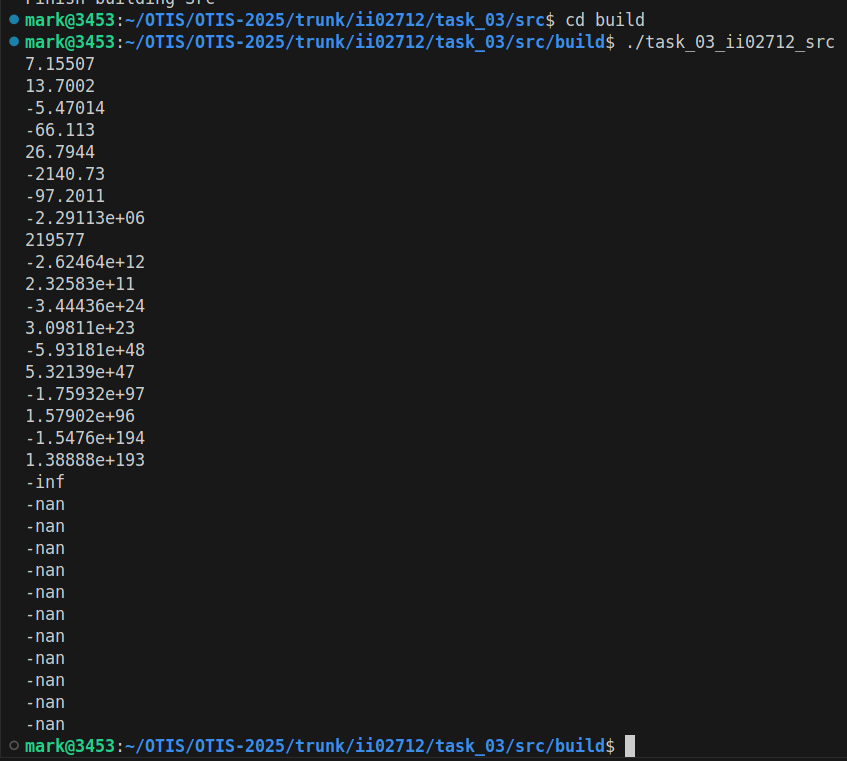
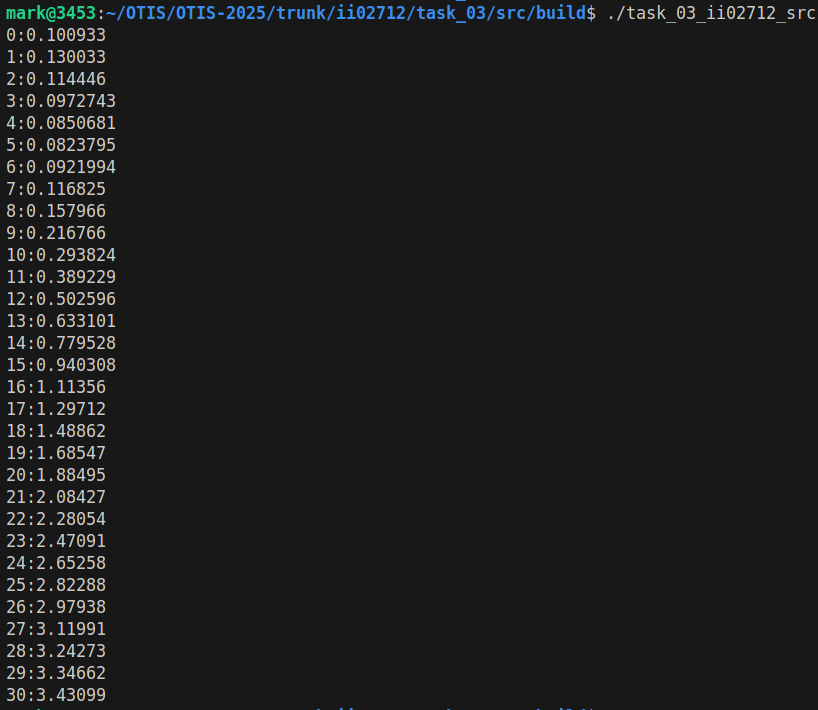
исправил T на T0

Changed region(s): [[0.0, 0.0, 1.0, 1.0]]

diff --git a/trunk/ii02712/task_02/test/test.cpp b/trunk/ii02712/task_02/test/test.cpp
@@ -13,7 +13,7 @@ TEST(TestLinearModel, WhenStepsIsFour)
     }
 
     std::vector<double> accepted_results
-    { 0.5, 0.45, 0.455, 0.4545 };
+    { 0.1, 0.45, 0.455, 0.4545 };
     EXPECT_EQ(results.size(), accepted_results.size());
     for (int i = 0; i < results.size(); i++)
     {
@@ -35,25 +35,10 @@ TEST(TestNonLinearModel, WhenStepsIsFour)
     }
 
     std::vector<double> accepted_results
-    {  0.53658, 0.33896, 0.44524, 0.3929 };
+    {  0.136588, 0.113601, 0.118776, 0.117657 };
     EXPECT_EQ(results.size(), accepted_results.size());  
     for (int i = 0; i < results.size(); i++) 
     {
         EXPECT_NEAR(results[i], accepted_results[i], 1e-2) << "Not equal at" << i;
-    }
-}
-
-TEST(TestPIDRegulatorUsingNonLinearModel, WhenStepsIsFour)
-{   
-    const int steps = 5;
-    const double w = 100;
-    std::vector<double> results = simulatePIDRegulatorUsingNonLinearModel(w, steps);
-
-    std::vector<double> accepted_results
-    { 2, 3.76, 3.29119, 0.746527, 3.94837};
-    EXPECT_EQ(results.size(), accepted_results.size());  
-    for (int i = 0; i < results.size(); i++)
-    {
-        EXPECT_NEAR(results[i], accepted_results[i], 1e-1) << "Not equal at" << i;
     }
 }

diff --git a/trunk/ii02712/task_02/src/main.cpp b/trunk/ii02712/task_02/src/main.cpp
@@ -1,0 +1,26 @@
+#include <iostream>
+#include <cmath>
+#include "functions.h"
+
+int main() {
+    const int steps = 15;
+    double y_next = 0;
+    double y_pred;   
+    double u = 1;  
+    std::cout << "The Linear model" << std::endl;
+    for (int i = 0; i < steps; i++) {
+        y_next = linearModel(y_next, u);
+        std::cout << i << "\t" << y_next << std::endl;
+    }
+    std::cout << std::endl;
+    y_next = 0;
+    double u_pred;  
+    std::cout << "Nonlinear model:" << std::endl;
+    for (int i = 0; i < steps; i++) {
+        y_pred = y_next;
+        u_pred = u;
+        y_next = nonlinearModel(y_next, u, y_pred, u_pred);
+        std::cout << i << "\t" << y_next << std::endl;
+    }
+    return 0;
+}

diff --git a/trunk/ii02712/task_03/src/functions.h b/trunk/ii02712/task_03/src/functions.h
@@ -3,16 +3,16 @@
 
 const double a = -0.1;
 const double b = 0.5;
-const double c = -0.2;
+const double c = 0.2;
 const double d = 0.4;
 
-const double K  = 0.001;
-const double T0 = 1;
-const double Td = 10.0;
-const double T = 0.05;
+const double K  = 0.1;
+const double T0 = 0.1;
+const double Td = 0;
+const double T = 0.1;
 
 const double q0 = K * (1.0 + Td/T0);
-const double q1 = -K * (1.0 + 2.0 * Td/T - T0/T);
+const double q1 = -K * (1.0 + 2.0 * Td/T0 - T0/T);
 const double q2 = K * Td/T0;
 
 /**

diff --git a/trunk/ii02712/task_02/src/functions.cpp b/trunk/ii02712/task_02/src/functions.cpp
@@ -1,0 +1,10 @@
+#include "functions.h"
+#include <cmath>
+
+double linearModel(double y, double u) {
+    return a * y + b * u;
+}
+
+double nonlinearModel(double y, double u, double y_pred, double u_pred) {
+    return a * y - b * pow(y_pred, 2) + c * u + d * sin(u_pred);
+}

diff --git a/trunk/ii02712/task_02/src/functions.h b/trunk/ii02712/task_02/src/functions.h
@@ -1,0 +1,9 @@
+#pragma once
+
+const double a = -0.1;
+const double b = 0.5;
+const double c = -0.2;
+const double d = 0.4;
+
+double linearModel(double y, double u);
+double nonlinearModel(double y, double u, double y_pred, double u_pred);

diff --git a/trunk/ii02712/task_03/src/main.cpp b/trunk/ii02712/task_03/src/main.cpp
@@ -4,7 +4,7 @@
 
 int main() {
     const int steps = 31;
-    const double w = 100;
+    const double w = 10;
 
     std::vector<double> result = simulatePIDRegulatorUsingNonLinearModel(w, steps);
 

diff --git a/trunk/ii02712/task_02/doc/README.md b/trunk/ii02712/task_02/doc/README.md
@@ -1,0 +1,90 @@
+<p align="center">Министерство образования Республики Беларусь</p>
+<p align="center">Учреждение образования</p>
+<p align="center">“Брестский Государственный технический университет”</p>
+<p align="center">Кафедра ИИТ</p>
+<br><br><br><br><br><br><br>
+<p align="center">Лабораторная работа №2</p>
+<p align="center">По дисциплине “Общая теория интеллектуальных систем”</p>
+<p align="center">Тема: “Модульное тестирование. Покрытие исходного кода тестами.”</p>
+<br><br><br><br><br>
+<p align="right">Выполнил:</p>
+<p align="right">Студент 2 курса</p>
+<p align="right">Группы ИИ-27</p>
+<p align="right">Литовкин Н.А.</p>
+<p align="right">Проверил:</p>
+<p align="right">Дворанинович Д.А.</p>
+<br><br><br><br><br>                                               
+<p align="center">Брест 2025</p>                
+
+
+# Общее задание #
+Написать модульные тесты для программы, разработанной в лабораторной работе №1.
+
+1. Использовать следующий фреймворк для модульного тестирования - [Google Test](https://google.github.io/googletest/).
+2. Написать модульные тесты для основных функций программы. Разместить тесты в каталоге: **trunk\ii0xxyy\task_02\test**.
+3. Исходный код модифицированной программы разместить в каталоге: **trunk\ii0xxyy\task_02\src**.
+4. В файле `readme.md` отразить количество написанных тестов и процент покрытия кода тестами (использовать любой инструмент для анализа покрытия, например, [gcovr](https://gcovr.com/en/stable/)).
+5. Также необходимо отразить выполнение работы в общем файле [`readme.md`](https://github.com/brstu/OTIS-2025/blob/main/README.md) в соответствующей строке (например, для студента под порядковым номером 1 - https://github.com/brstu/OTIS-2025/blob/b2d60c2765b369aed21af76af8fa4461da2c8da6/README.md?plain=1#L13).
+
+
+## Код тестов
+```C++
+#include <gtest/gtest.h>
+#include "../src/functions.h"
+
+TEST(TestLinearModel, WhenStepsIsFour)
+{   
+    const int steps = 4;
+    double y_next = 0;
+    double u = 1;
+    std::vector<double> results;
+    for (int i = 0; i < steps; i++) {
+        y_next = linearModel(y_next, u);
+        results.push_back(y_next);
+    }
+
+    std::vector<double> accepted_results
+    { 0.5, 0.45, 0.455, 0.4545 };
+    EXPECT_EQ(results.size(), accepted_results.size());
+    for (int i = 0; i < results.size(); i++)
+    {
+        EXPECT_NEAR(results[i], accepted_results[i], 1e-2) << "Not equal at" << i;
+    }
+}
+
+TEST(TestNonLinearModel, WhenStepsIsFour)
+{   
+    const int steps = 4;
+    double y_next = 0;
+    double u = 1;
+    std::vector<double> results;
+    for (int i = 0; i < steps; i++) {
+        double y_pred = y_next;
+        double u_pred = u;
+        y_next = nonlinearModel(y_next, u, y_pred, u_pred);
+        results.push_back(y_next);
+    }
+
+    std::vector<double> accepted_results
+    {  0.136588, 0.113601, 0.118776, 0.117657 };
+    EXPECT_EQ(results.size(), accepted_results.size());  
+    for (int i = 0; i < results.size(); i++) 
+    {
+        EXPECT_NEAR(results[i], accepted_results[i], 1e-2) << "Not equal at" << i;
+    }
+}
+```
+
+## Результаты тестирования
+![GoogleTest Output](img/gtest.png)
+
+## Покрытие кода тестами
+!['gcovr' Output](img/gcovr.png)
+
+## Reviews
+igor7123
+![Review igor7123](img/igor7123.png)
+v1tyokkk
+![Review v1tyokkk](img/v1tyokkk.png)
+
+Вывод: Научился писать модульные тесты для программы, разработанной в лабораторной работе №1.
